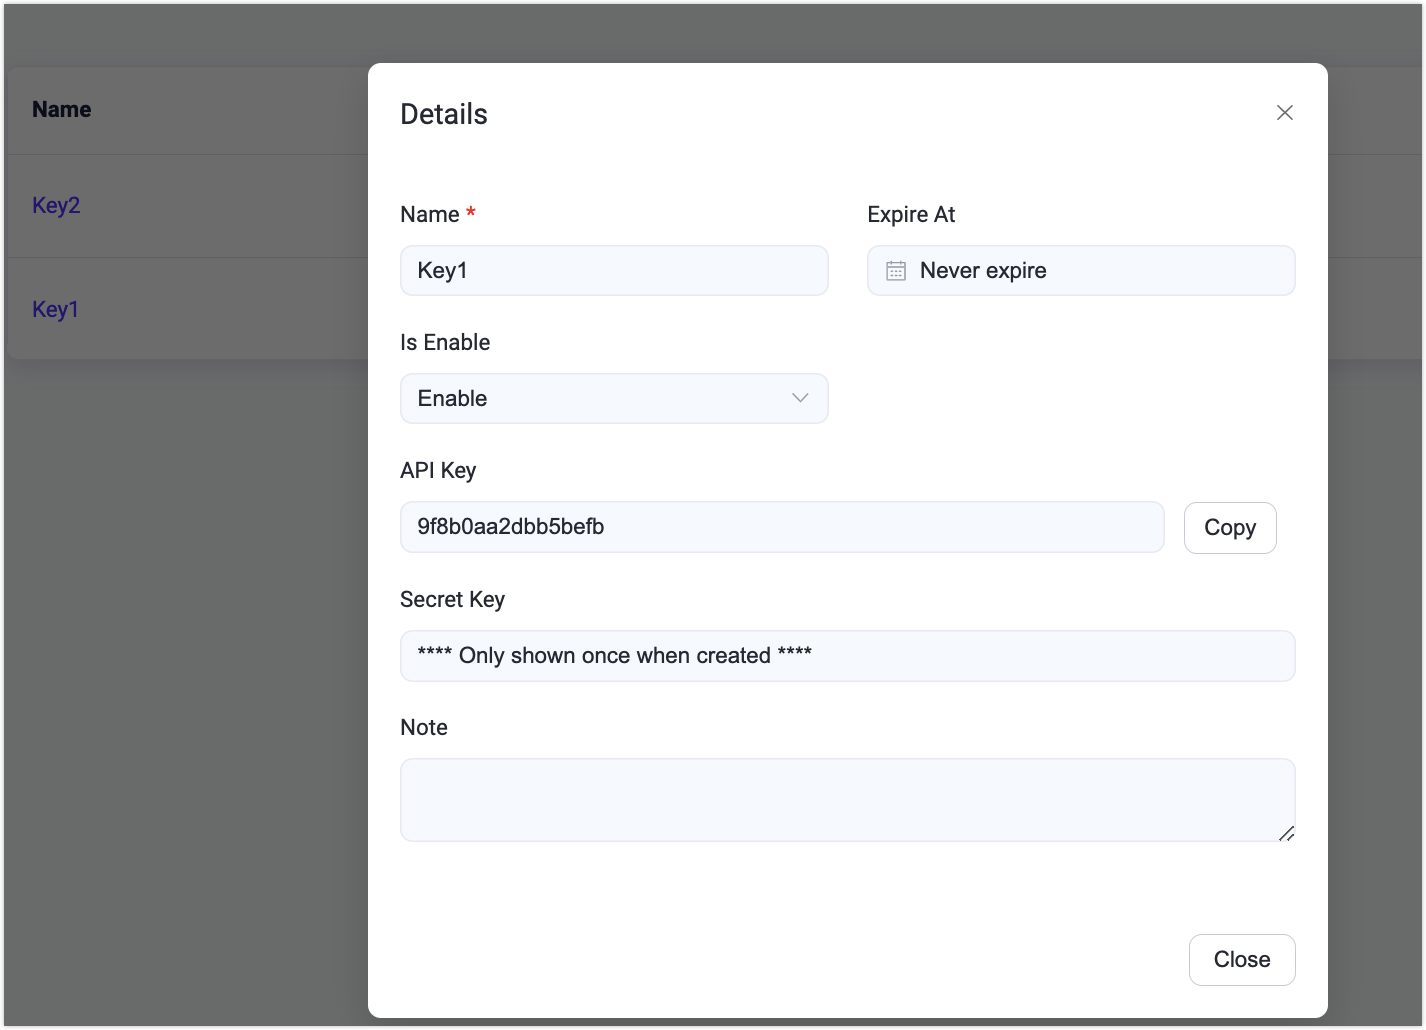
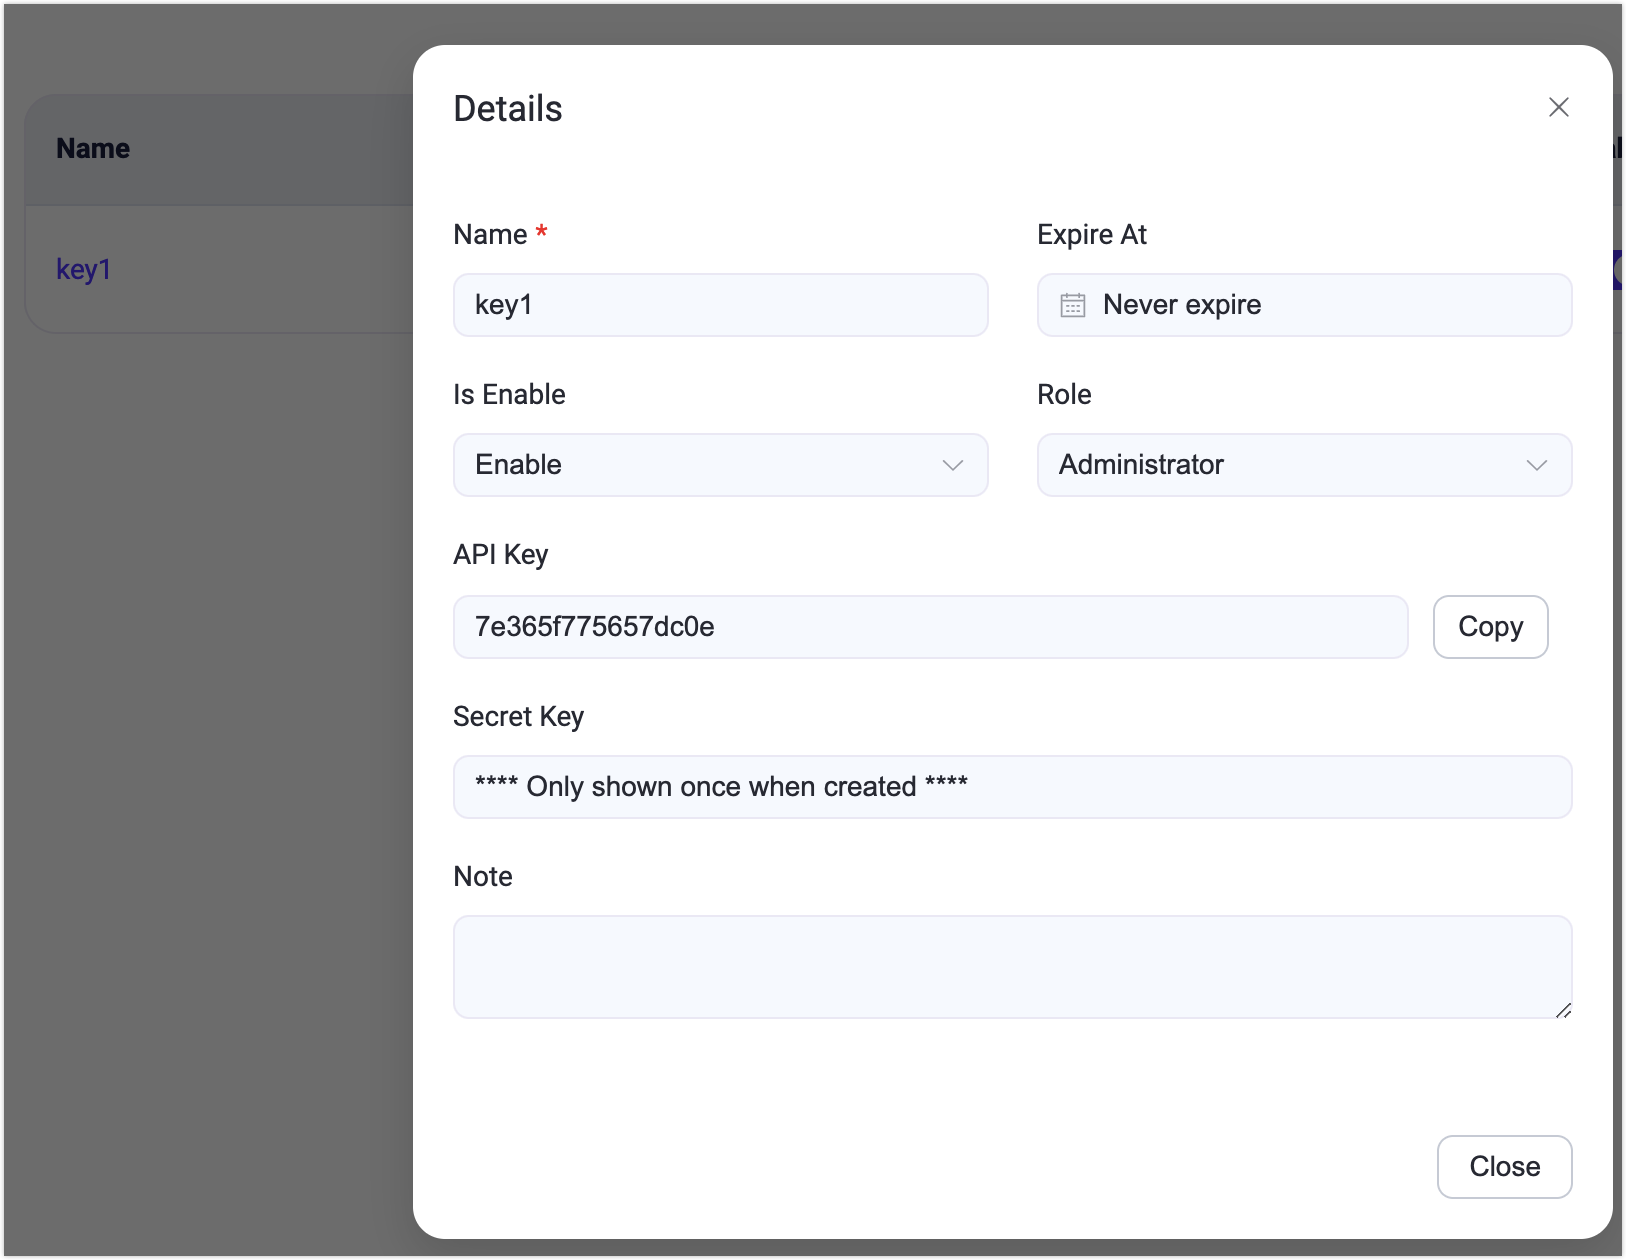
Updated system.md

diff --git a/en_US/dashboard/system.md b/en_US/dashboard/system.md
@@ -50,7 +50,8 @@ On the API Keys page, you can generate an API key and secret key for accessing t
 
 2. On the Create API Key dialog, configure in the detailed information for the API key. 
 
-   If the **Expire At** textbox is left empty, the API key will never expire.
+   - The API key will never expire if the Expire At box is left empty.
+   - Select a role for API key (optional), applicable only in the Enterprise edition. For more information about roles, see [Roles and Permissions](../admin/api.md#roles-and-permissions).
 
 3. Click the **Confirm** button, and the API key and secret Key are created and displayed in the **Created Successfully** dialog. 
 

diff --git a/zh_CN/dashboard/system.md b/zh_CN/dashboard/system.md
@@ -55,7 +55,8 @@ EMQX Dashboard 的**系统**菜单包括**用户**、**API 密钥**、**License*
 
 2. 在创建 API 密钥对话框上，配置 API 密钥的详细信息。
 
-   如果**到期时间**文本框留空，API 密钥将永不过期。
+   - 如果**到期时间**文本框留空，API 密钥将永不过期。
+   - 您可以指定密钥的[角色](../admin/api.md#角色与权限)（可选，仅适用于企业版）。
 
 3. 单击**确认**按钮，API 密钥和密钥将被创建并显示在**创建成功**对话框中。
 
